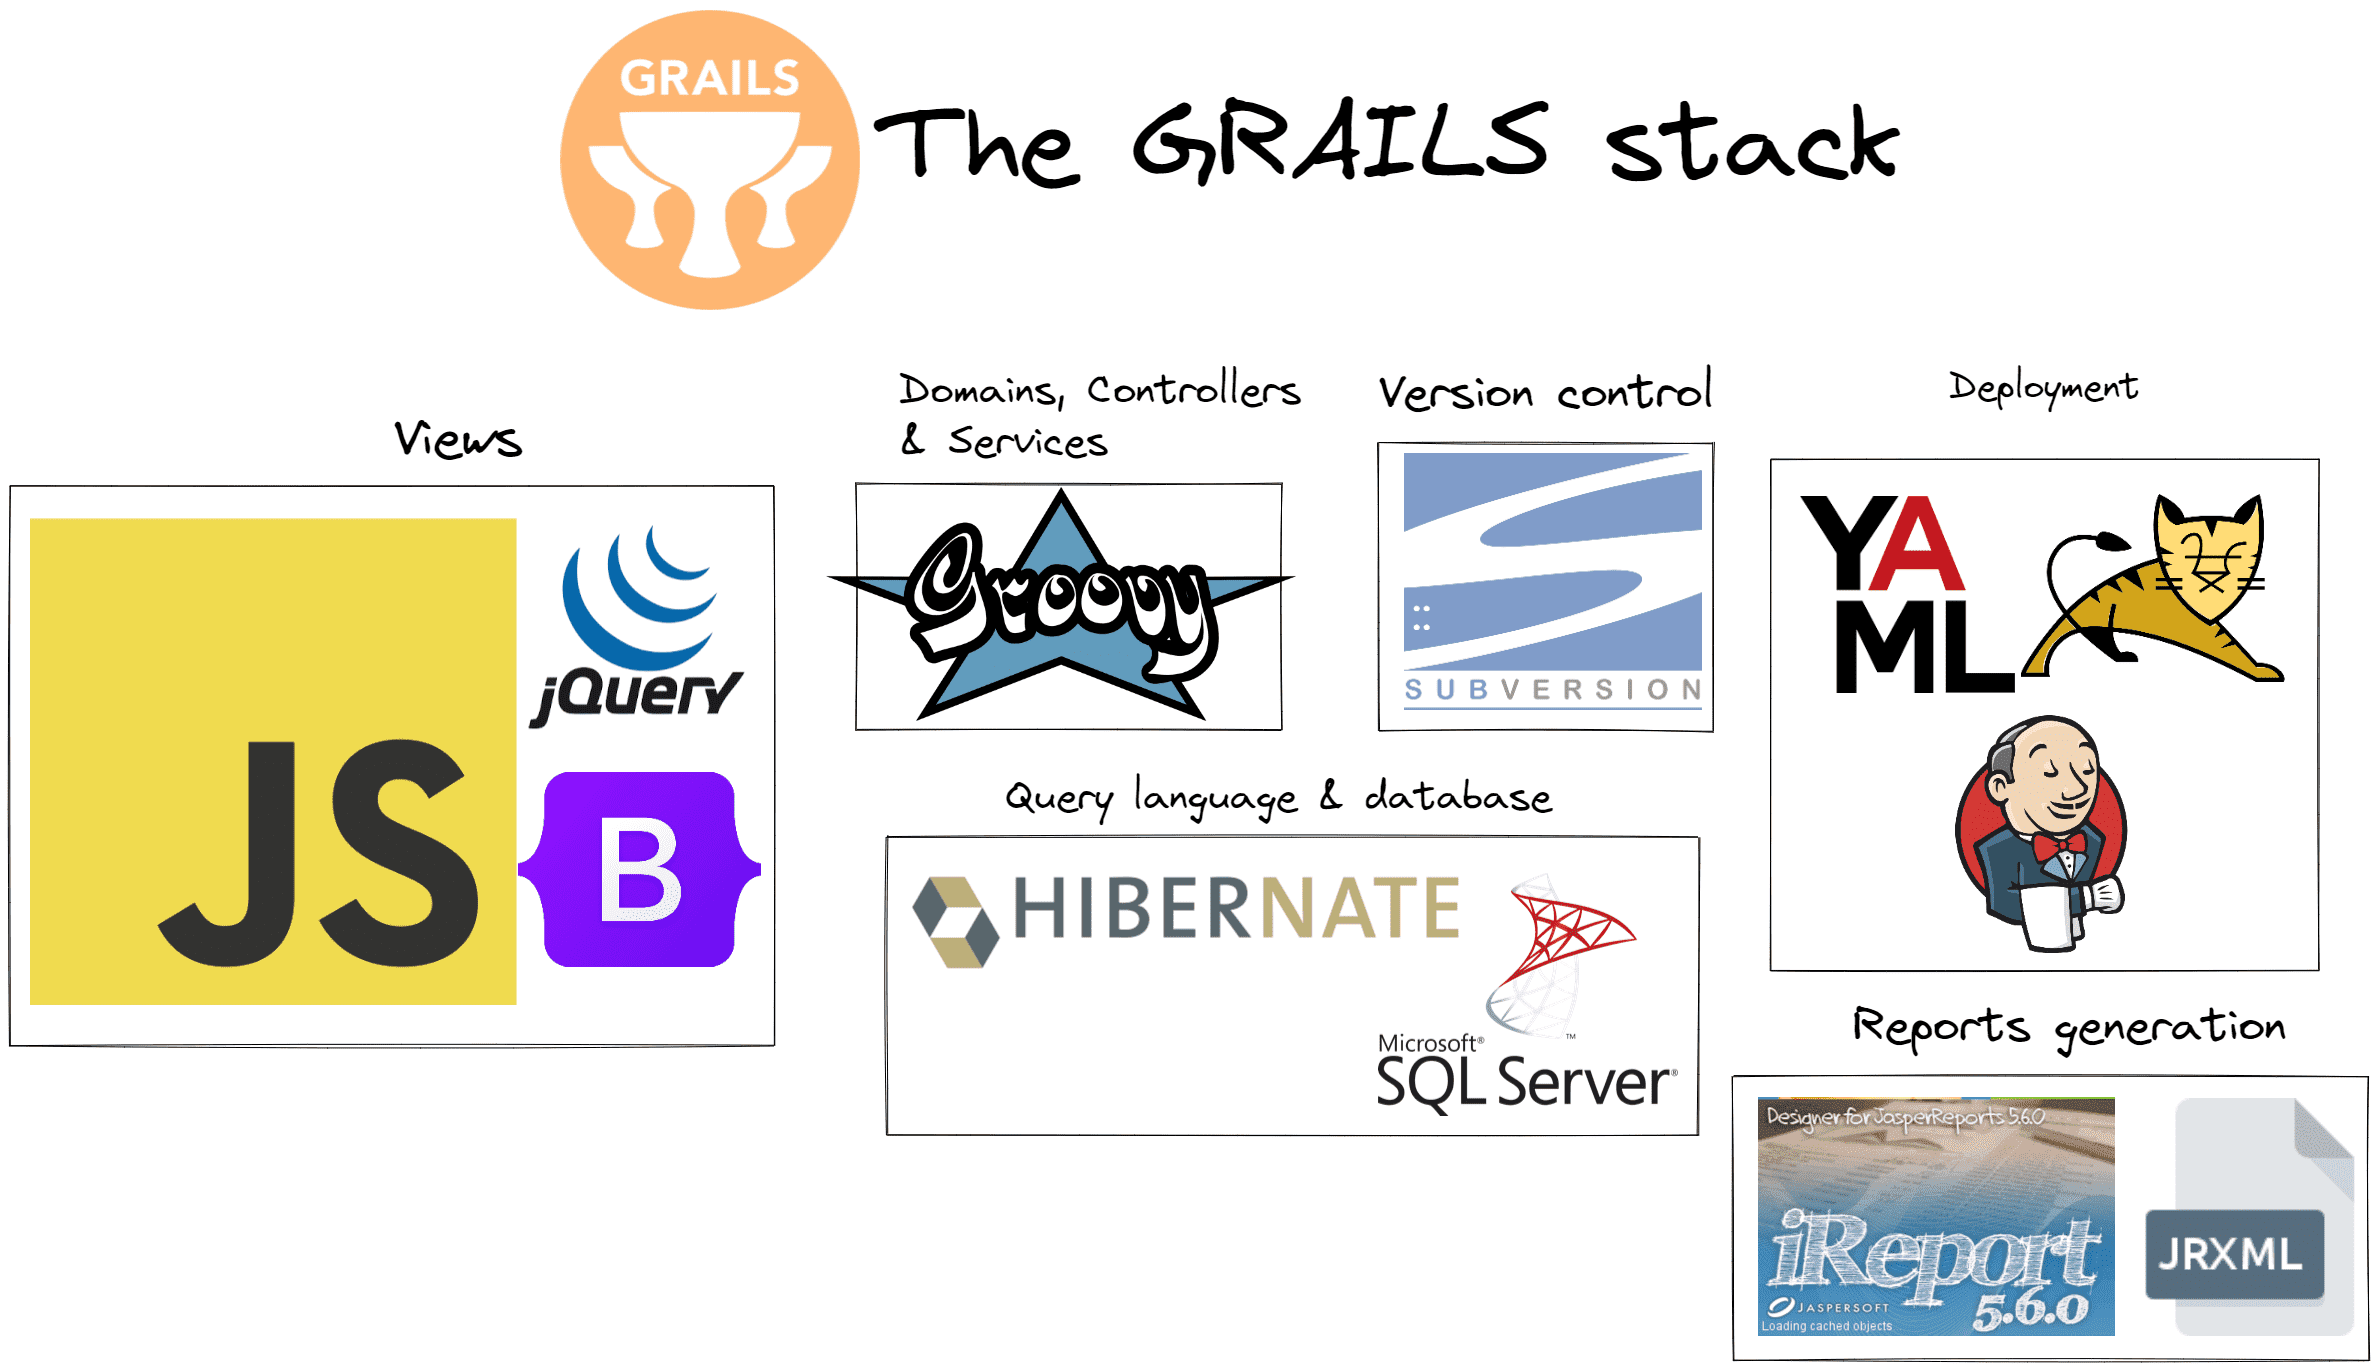
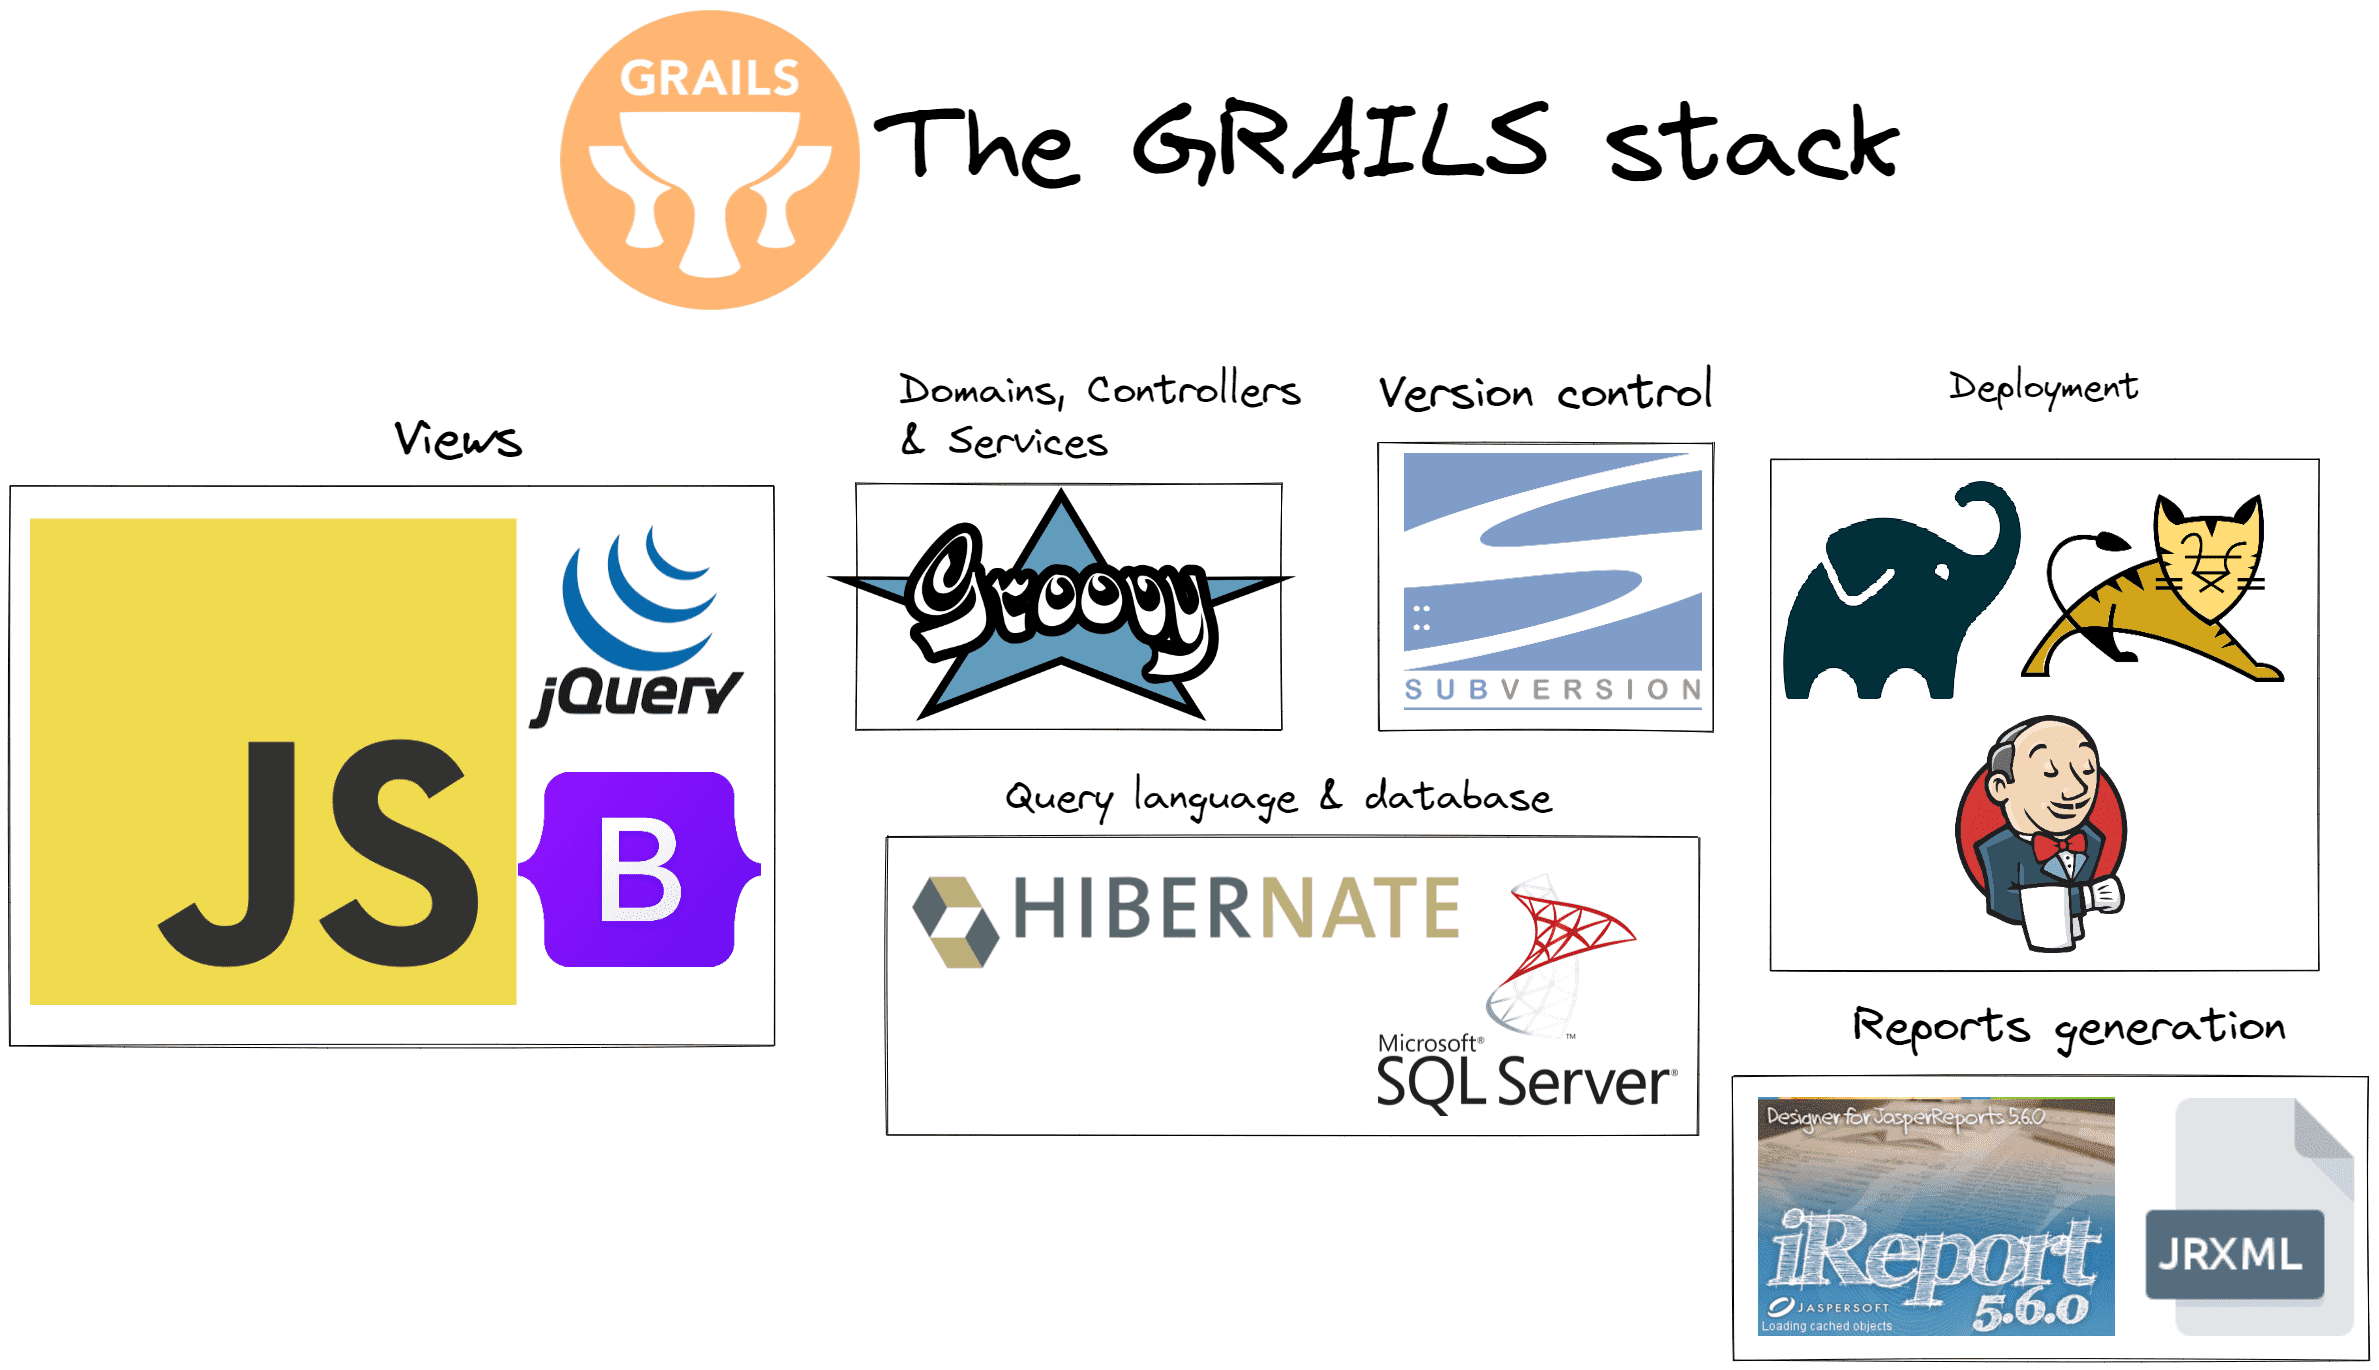
updated about me

Changed region(s): [[0.7465, 0.3372, 0.871, 0.5212]]

diff --git a/content/es/page/about.md b/content/es/page/about.md
@@ -17,11 +17,12 @@ Buenas, soy Franco Becvort \(Pollito\), un desarrollador web de San Luis, Argent
 
 \(HUGO v0.104.3 - Desde Octubre 2022 \) un generador de sitios estático. A diferencia de otros sistemas donde las páginas se generan dinámicamente con cada solicitud de un cliente, Hugo genera las páginas cuando se crea o actualiza el contenido
 
-![HUGO stack ES](/about/hugoStackES.png)
+![HUGO stack](/about/hugoStack.png)
 
 - **Framework**: HUGO
 - **Lenguaje de marcado**: Markdown
-- **Framework CSS**: Tailwind
+- **Tema**: Blist
+- **Deployment & Administración de contenido**: Netlify
 
 ### Next.js stack
 
@@ -51,7 +52,7 @@ Buenas, soy Franco Becvort \(Pollito\), un desarrollador web de San Luis, Argent
 - **Dominios, Controladores & Servicios:** Groovy
 - **Lenguaje de consulta & base de datos:** Hibernate, Microsoft SQL Server 2016
 - **Control de versión:** Subversion
-- **Deployment:** Apache Tomcat 8, archivos YAML, Jenkins
+- **Deployment:** Gradle, Apache Tomcat 8, Jenkins
 - **Reportes:** iReport 5.6.0, archivos JRXML
 
 ## ¿Sos un desarrollador frontend? ¿Un desarrollador backend? ¿Qué es lo que haces?
@@ -110,10 +111,11 @@ Estas son algunas cosas que hago y en las que soy bueno
   - Solucionar problemas asociados a la usabilidad
 
 ## Gente con la que he trabajado
+- [Applica](http://www.applica-mobile.com/?lang=es)
+  - Noviembre 2022 - Actualidad: Desarrollador Backend (Java Spring)
 
-- [Runaid](https://www.runaid.com.ar/)
-
-  - Septiembre 2021 - Actualidad: Desarrollador web
+- [Runaid](https://www.runaid.com.ar/index.php?languaje=es)
+  - Septiembre 2021 - Octubre 2022: Desarrollador Web (Grails & Node)
 
 - [Universidad Nacional de San Luis](http://www.unsl.edu.ar/)
   - Febrero 2021 - Marzo 2021: Tutor
@@ -123,13 +125,13 @@ Estas son algunas cosas que hago y en las que soy bueno
 
 ### r2d2
 
-_Julio 2022 - actualidad_
+_Julio 2022 - Octubre 2022_
 
 Una aplicación de migración de bases de datos Node soporte para [DOSEP](https://dosep.sanluis.gob.ar/). Ejecuta jobs programados, los cuales buscan a través de una base de datos Microsoft SQL Server, extrayendo N filas, comunicándose con otra aplicación usando API Rest, y marcando éxito/fracaso
 
 ### c3po
 
-_Julio 2022 - actualidad_
+_Julio 2022 - Octubre 2022_
 
 Otra aplicación Node soporte para [DOSEP](https://dosep.sanluis.gob.ar/). Tiene dos objetivos principales:
 
@@ -141,7 +143,7 @@ Otra aplicación Node soporte para [DOSEP](https://dosep.sanluis.gob.ar/). Tiene
 
 ### [SIGEM](https://sigem.sanluislaciudad.gob.ar/sigem/)
 
-_Septiembre 2021 - actualidad_
+_Septiembre 2021 - Octubre 2022_
 
 Una página gubernamental donde los ciudadanos de San Luis pueden realizar trámites y consultas online, como: administrar libretas sanitarias, habilitaciones comerciales, permisos de tránsito, realizar quejas, entre otras cosas
 
@@ -149,7 +151,7 @@ Una página gubernamental donde los ciudadanos de San Luis pueden realizar trám
 
 ### Compras y Contrataciones
 
-_Septiembre 2021 - actualidad_
+_Septiembre 2021 - Octubre 2022_
 
 Una página de administración interna donde los funcionarios del gobierno de San Luis administran expedientes realcionados a compras, contrataciones, y licitaciones
 ![compras](/about/compras.png)
@@ -177,7 +179,3 @@ Un proyecto de extesión e interes social de la Universidad Nacional de San Luis
 - [Asistente en &ldquo;La Primera Jornada de Informática&ldquo;](https://drive.google.com/file/d/1ZRzNwzuWxHUDomRWSYBb9L4XVDN-y1eO/view?usp=share_link) - Universidad Nacional de San Luis - Noviembre 2019
 - [Ingeniería en Informática](https://drive.google.com/file/d/1lE_3cnoPvAi6lI8ofx9adbCLKPuDmDYR/view?usp=share_link) - Universidad Nacional de San Luis - desde 2018 hasta 2021, abandonado al 64.44%
 - [Capacitación en Idioma Inglés](https://drive.google.com/file/d/12X09mXTiV4u1rUHvMpcEqR_XzL1tIOoA/view?usp=share_link) - Instituto Cambridge - desde 2011 hasta 2016
-
-## Mi CV
-
-[Descargalo aquí](https://drive.google.com/file/d/1OEvCY78nxDPb8DYyNcfPAqCAF8FYrKso/view?usp=share_link) . Tienes mi linkedin abajo en el pie de página por si quieres entrar en contacto

diff --git a/content/en/page/about.md b/content/en/page/about.md
@@ -21,7 +21,8 @@ Hello, I'm Franco Becvort \(Pollito\), a Web Developer from San Luis, Argentina
 
 - **Framework**: HUGO
 - **Markup language**: Markdown
-- **CSS Framework**: Tailwind
+- **Theme**: Blist
+- **Deployment and CMS**: Netlify
 
 ### The Next.js stack
 
@@ -51,7 +52,7 @@ Hello, I'm Franco Becvort \(Pollito\), a Web Developer from San Luis, Argentina
 - **Domains, Controllers & Services:** Groovy
 - **Query language & database:** Hibernate, Microsoft SQL Server 2016
 - **Version control:** Subversion
-- **Deployment:** Apache Tomcat 8, YAML files, Jenkins
+- **Deployment:** Gradle, Apache Tomcat 8, Jenkins
 - **Report generation:** iReport 5.6.0, JRXML files
 
 ## Are you a frontend dev? a backend dev? fullstack dev? What do you do?
@@ -111,9 +112,11 @@ These are the things I do and I'm good at
 
 ## People I've worked with
 
-- [Runaid](https://www.runaid.com.ar/)
+- [Applica](http://www.applica-mobile.com/?lang=en)
+  - November 2022 - Present: Backend Developer (Java Spring)
 
-  - September 2021 - Present: Web Developer
+- [Runaid](https://www.runaid.com.ar/index.php?languaje=en)
+  - September 2021 - October 2022: Web Developer (Grails & Node)
 
 - [National University of San Luis](http://www.unsl.edu.ar/)
   - February 2021 - March 2021: Tutor
@@ -123,13 +126,13 @@ These are the things I do and I'm good at
 
 ### r2d2
 
-_July 2022 - present_
+_July 2022 - October 2022_
 
 A support Node database migration app for [DOSEP](https://dosep.sanluis.gob.ar/). It excecutes scheduled jobs, which each look through a Microsoft SQL Server database, extracting N rows, comunicating to another application using API Rest, and flagging success/failure
 
 ### c3po
 
-_July 2022 - present_
+_July 2022 - October 2022_
 
 Another Node support app for [DOSEP](https://dosep.sanluis.gob.ar/). It has two main purposes
 
@@ -141,14 +144,14 @@ Another Node support app for [DOSEP](https://dosep.sanluis.gob.ar/). It has two 
 
 ### [SIGEM](https://sigem.sanluislaciudad.gob.ar/sigem/)
 
-_September 2021 - present_
+_September 2021 - October 2022_
 
 A government page where the citizens of San Luis can carry out procedures and queries online, such as: managing health records, commercial authorizations, transit permits, make a complain, among others
 ![sigem](/about/sigem.jpg)
 
 ### Compras y Contrataciones
 
-_September 2021 - present_
+_September 2021 - October 2022_
 
 An internal admin web app where San Luis government officials manage files related to purchases, hiring, and bids
 ![compras](/about/compras.png)
@@ -176,7 +179,3 @@ A social interest project extension of the National University of San Luis
 - [Attendant at &ldquo;The First Computer Science Conference&ldquo;](https://drive.google.com/file/d/1ZRzNwzuWxHUDomRWSYBb9L4XVDN-y1eO/view?usp=share_link) - National University of San Luis - November 2019
 - [Computer Engineering](https://drive.google.com/file/d/1lE_3cnoPvAi6lI8ofx9adbCLKPuDmDYR/view?usp=share_link) - National University of San Luis - from 2018 to 2021, dropped at 64.44%
 - [English Language Training](https://drive.google.com/file/d/12X09mXTiV4u1rUHvMpcEqR_XzL1tIOoA/view?usp=share_link) - Cambridge Institute - from 2011 to 2016
-
-## My CV
-
-[Download it here](https://drive.google.com/file/d/1TIDam9E8cvcidaCUeJ6HJzqeVztHRbM0/view?usp=share_link) . My linkedin is in the footer if you wanna get in touch

diff --git a/content/en/blog/2022-11-06-my-time-in-runaid.md b/content/en/blog/2022-11-06-my-time-in-runaid.md
@@ -16,7 +16,7 @@ Monday afternoon I get a call. I really don't remember which of the two bosses i
 
 On Monday night, September 13 2021, I cooked a plate of noodles, smiling from ear to ear, because it was the first time in months that I was gonna have something for dinner. I no longer had to go hungry at night to have enough money for the whole month, now I could have dinner \(and I was also going to be able to eat on Saturdays and Sundays\). And even though it was some grubby white noodles with a bit of salt, it was a great bowl of noodles
 
-At Runa I met people who are always willing to help, even if they are not even project partners. Being so small, everyone knew each other, and had stories, and laughed. They were never on top of me controlling what I did, they give the developer a lot of freedom to explore, break, try, and figure out how things work. There were times where that freedom made me feel lost, but I think it's an interesting way to set the new developer up with everything that's going on, and I have to say it works. It's the perfect place to start, and I've recommended it to everyone I know.
+At Runa I met people who are always willing to help, even if they are not project partners. Being so small, everyone knew each other, and had stories, and laughed. They were never on top of me controlling what I did, they give the developer a lot of freedom to explore, break, try, and figure out how things work. There were times where that freedom made me feel lost, but I think it's an interesting way to set the new developer up with everything that's going on, and I have to say it works. It's the perfect place to start, and I've recommended it to everyone I know.
 
 My departure is for pure reasons of personal and economic growth. I seek to scare myself again, to not understand, to feel satisfaction when I solve something that I didn't know how to do. I'm not someone who plans for the future, I don't know what I'm going to do next month, I don't know if I'm going to be alive next month, so if I have to make decisions that make me leave my comfort zone I think the time is now
 
